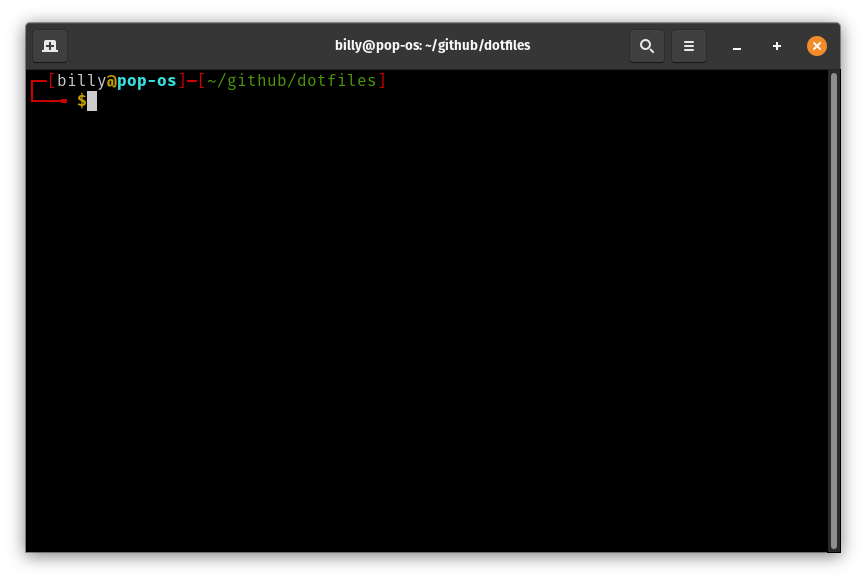
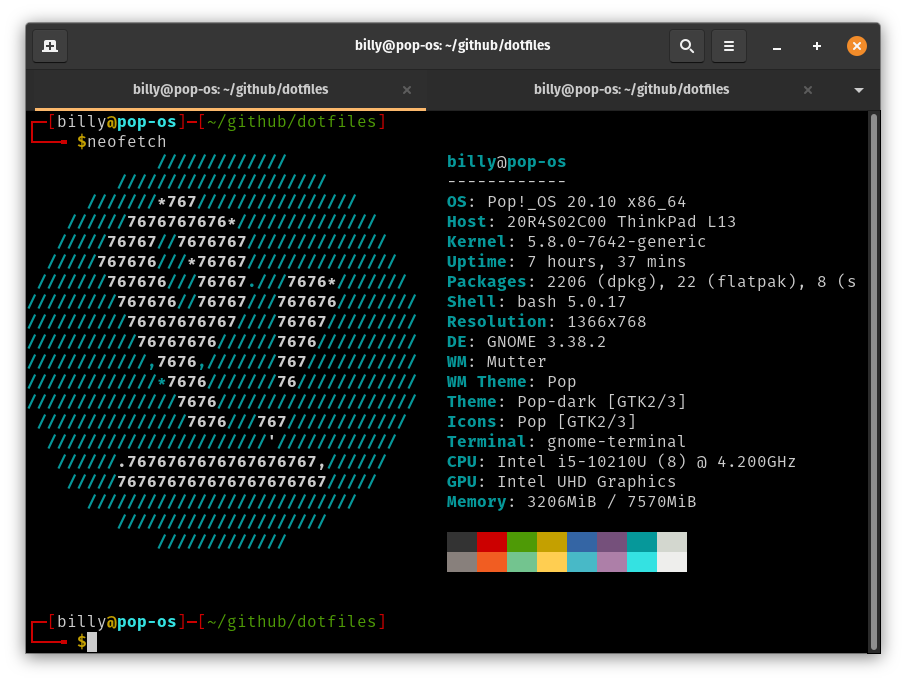
Cosmetic changes to README and changed the Screenshot.png

diff --git a/README.md b/README.md
@@ -1,6 +1,6 @@
-# Preamble
+## Preamble
 
-I've recently installed  [Pop! OS](https://pop.system76.com) on my new laptops and I've been slowly re-learning bash scripting. I started programming about 25 years ago when I was at University studying computing.
+I've recently installed  [Pop! OS](https://pop.system76.com) on my new laptops and I've been slowly re-learning [bash scripting](https://ryanstutorials.net/bash-scripting-tutorial/bash-scripting.php). I started programming about 25 years ago when I was at University studying computing.
 
 This is fork of a mature project that extends the bash setup on my Laptops and any other computer I care to install it on, I'll be adding functionality when time permits. At the moment, I'm quite enjoying the whole process, as it help me re-learn languages and techniques that I once used on a daily basis, the ones that I no longer use in my current job.
 
@@ -8,7 +8,7 @@ It scratches an itch. :smile:
 
 ![Terminal Screenshot](assets/Screenshot.png)
 
-# Installation
+## Installation
 
 ### Download and change folder
 ```
@@ -20,7 +20,7 @@ cd dotfiles
 ```
 ./install.sh
 ```
-## Removal
+### Removal
 
 ### Change to dotfiles folder
 ```
@@ -31,7 +31,7 @@ cd ~/dotfiles
 ./uninstall.sh
 ```
 
-# References and helpfull links
+## References and helpfull links
 [Tmux Cheat Sheet](https://tmuxcheatsheet.com/)
 [Vim Key Binding](https://devhints.io/vim)
 [Bash scripting Cheatsheet](https://devints.io/vim)
